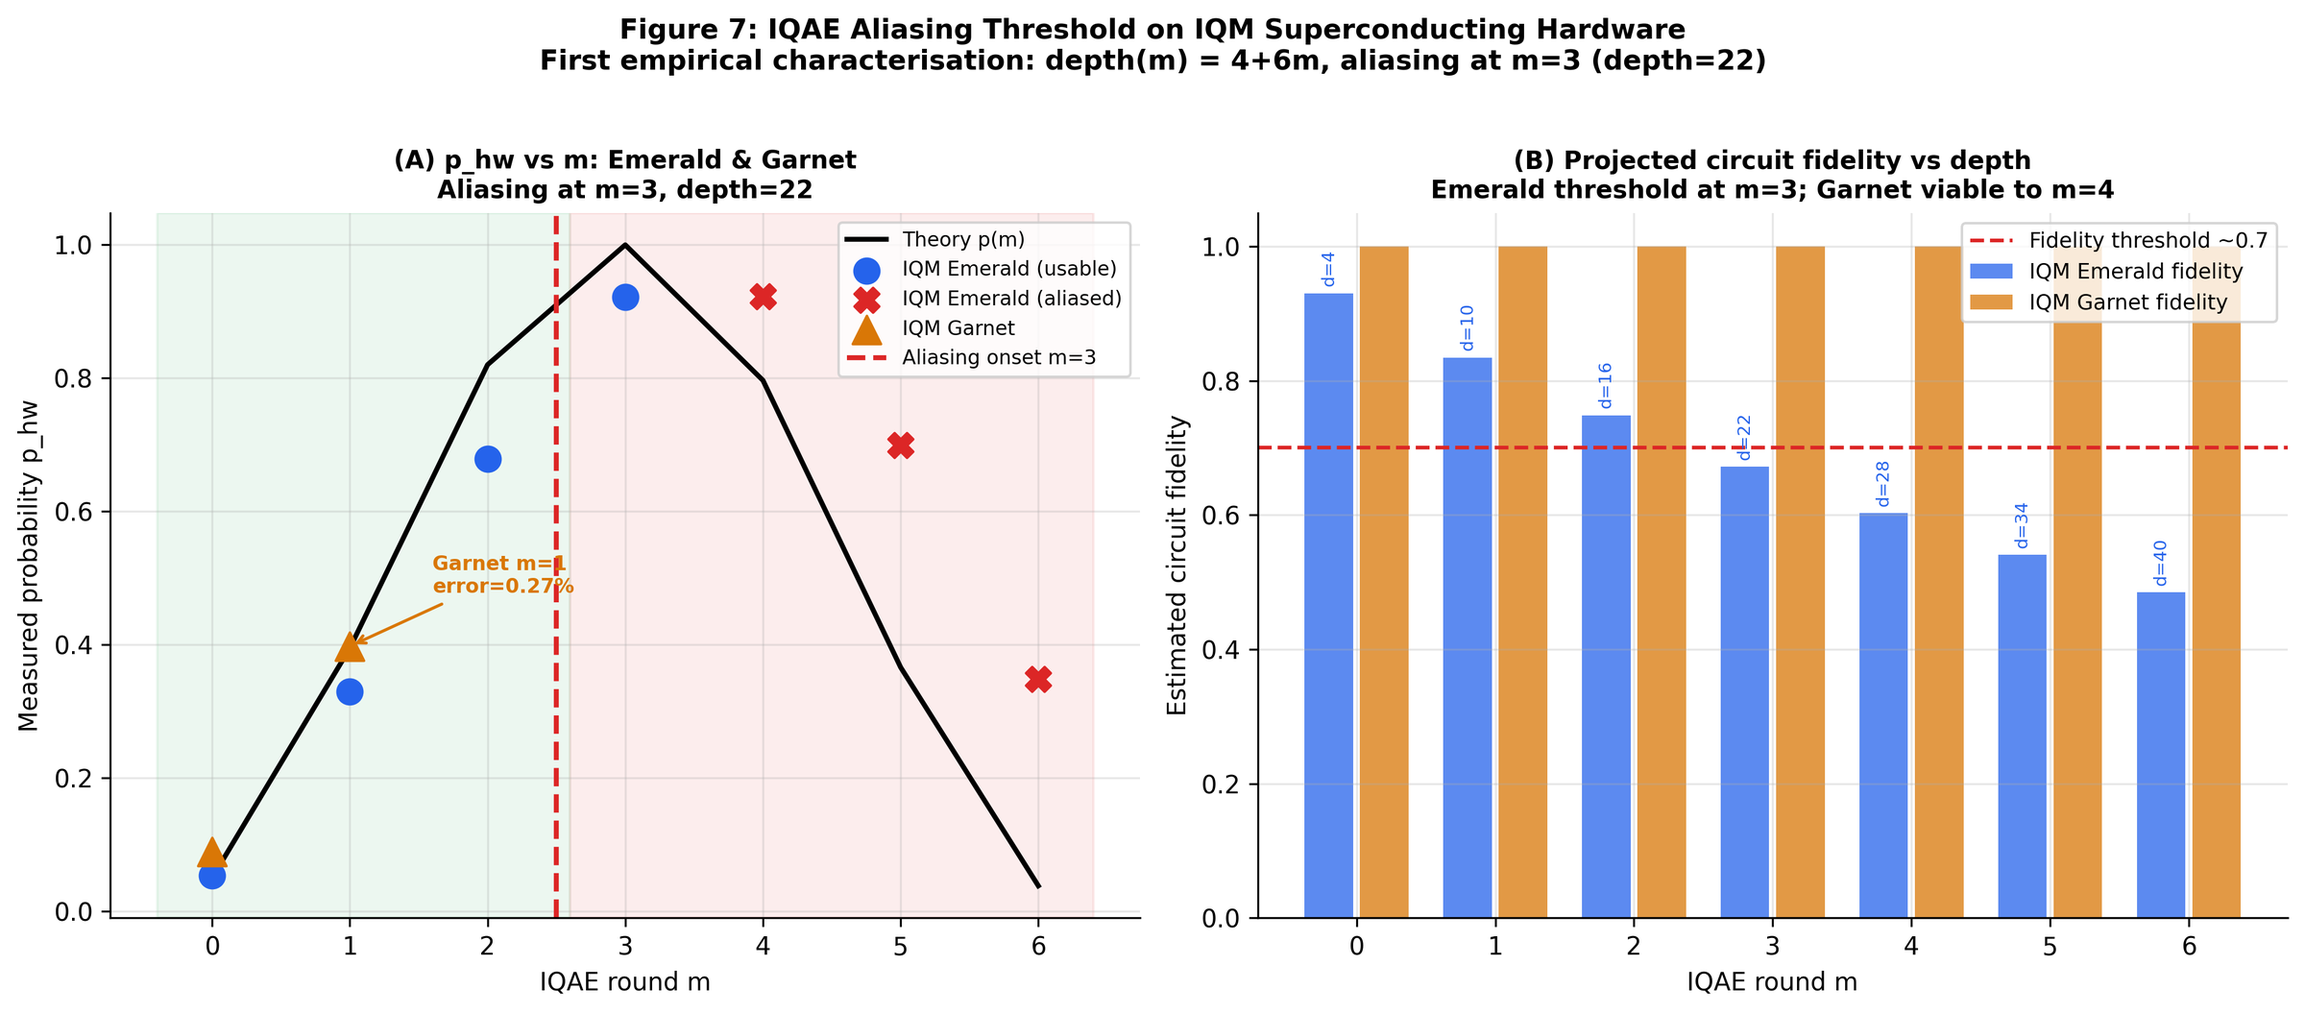
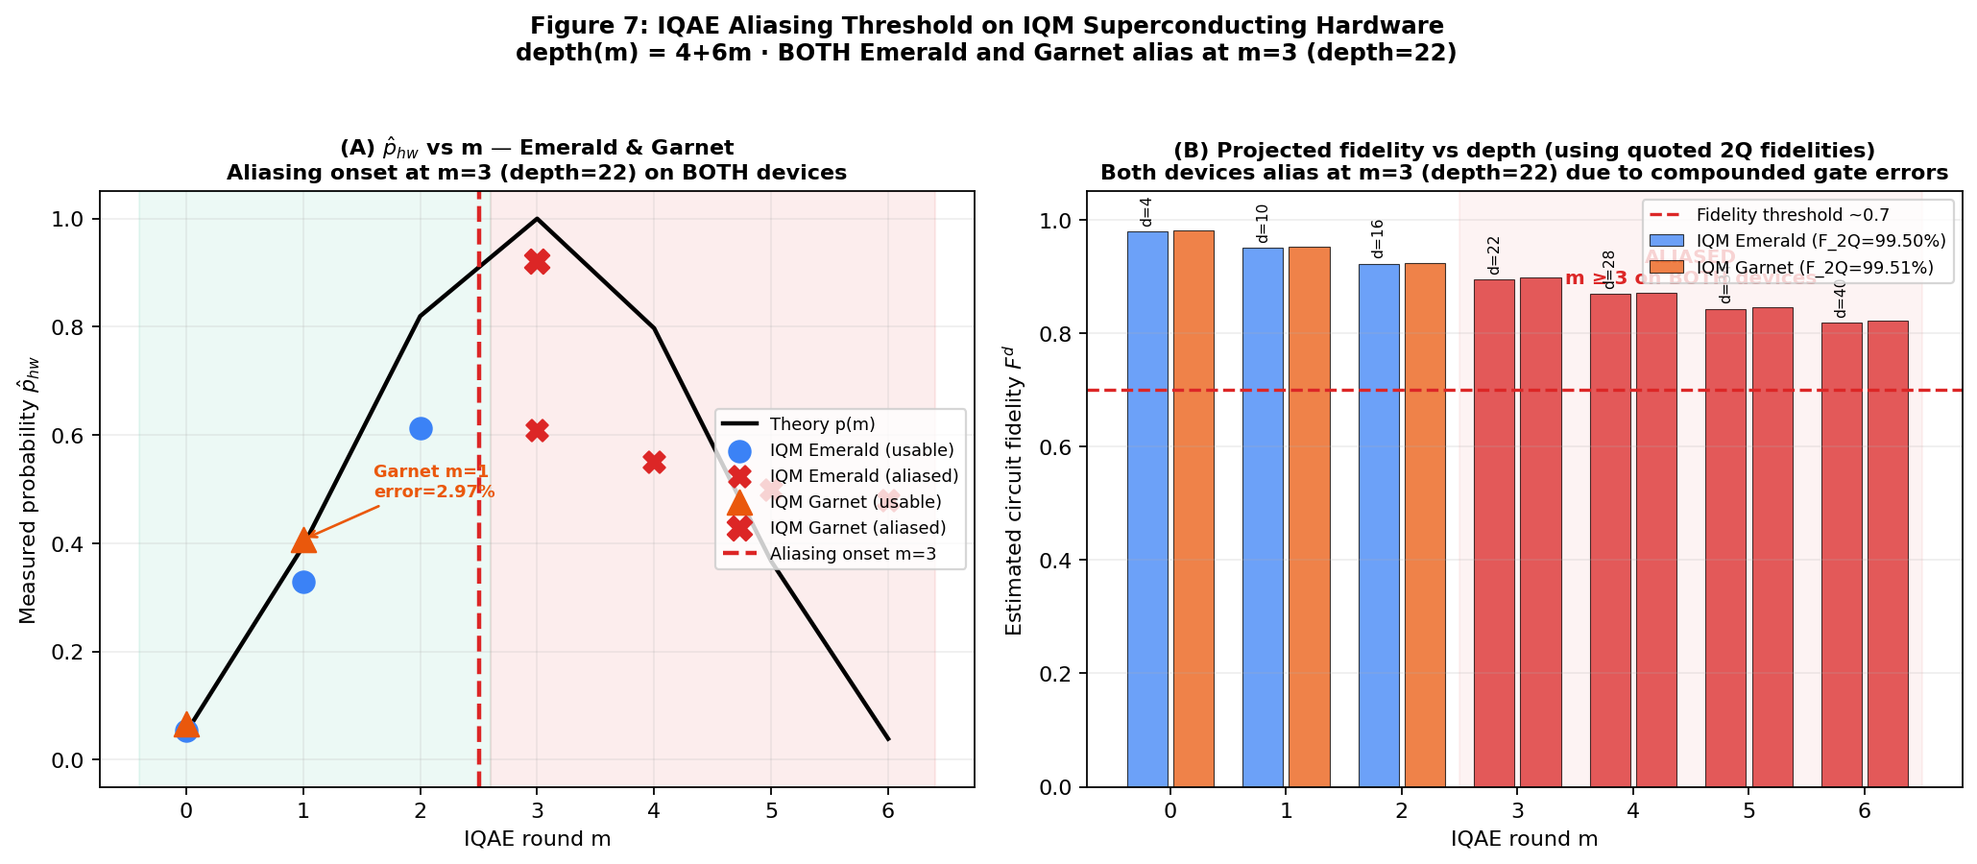
Update docs: replace JS template literals with static HTML and update hardware figure

diff --git a/docs/hardware.html b/docs/hardware.html
@@ -74,7 +74,7 @@
         </div>
       </div>
 
-      <div class="fig-wrap reveal"><img src="figures/fig07_aliasing_hardware.png" loading="lazy"><div class="fig-cap">Fig. 7 &mdash; IQAE measured probability p_hw vs Grover round m on IQM Emerald (circles) and Garnet (triangles), compared to the theoretical prediction (black line, &theta;=0.2265). Green zone: usable range (m&le;2, depth&le;16). Red zone: aliased range (m&ge;3, depth&ge;22). Garnet achieves 2.97% error at m=1; Emerald 16.55%.</div></div>
+      <div class="fig-wrap reveal"><img src="figures/fig07_aliasing_hardware.png" loading="lazy"><div class="fig-cap">Fig. 7 &mdash; IQAE measured probability p_hw vs Grover round m on IQM Emerald (circles) and Garnet (triangles), compared to the theoretical prediction (black line, &theta;=0.2265). Green zone: usable range (m&le;2, depth&le;16). Red zone: aliased range (m&ge;3, depth&ge;22). Garnet achieves 2.97% error at m=1; Emerald 16.55%. Right panel uses IQM-quoted 2Q fidelities (Garnet 99.51%, Emerald 99.50%) to project circuit fidelity F<sup>d</sup> &mdash; both devices fall below the usable threshold simultaneously at m=3 due to compounded gate errors at depth 22.</div></div>
     </div>
 
     <div class="divider" style="margin:2rem 0"></div>
@@ -90,17 +90,51 @@
           <div class="callout">Both devices have nominally identical 2Q gate fidelity (99.5% and 99.51%). The 5.6&times; performance gap at m=1 is entirely attributable to connectivity topology, not quoted fidelity.</div>
         </div>
         <div>
-          ${[['m=0  depth 4','Garnet',66,'33.1%','#f87171'],['m=0  depth 4','Emerald',13,'6.5%','#fbbf24'],
-             ['m=1  depth 10','Garnet',6,'2.97%','var(--teal-l)'],['m=1  depth 10','Emerald',33,'16.6%','#f87171'],
-             ['m=3  depth 22','Garnet',100,'>100% ALIASED','#f87171'],['m=3  depth 22','Emerald',100,'>100% ALIASED','#f87171']].map((r,i)=>`
-          ${i%2===0?`<div style="font-family:var(--font-m);font-size:.68rem;color:var(--grey);text-transform:uppercase;letter-spacing:.08em;margin:${i>0?'1.25rem':0} 0 .5rem">${r[0]}</div>`:''}
+          <div style="font-family:var(--font-m);font-size:.68rem;color:var(--grey);text-transform:uppercase;letter-spacing:.08em;margin:0 0 .5rem">m=0  depth 4</div>
           <div style="display:flex;align-items:center;gap:.75rem;margin-bottom:.5rem">
-            <span style="font-family:var(--font-m);font-size:.72rem;color:var(--grey-l);min-width:58px">${r[1]}</span>
+            <span style="font-family:var(--font-m);font-size:.72rem;color:var(--grey-l);min-width:58px">Garnet</span>
             <div style="flex:1;height:8px;background:rgba(255,255,255,.05);border-radius:4px;overflow:hidden">
-              <div style="width:${r[2]}%;height:100%;background:${r[4]};border-radius:4px"></div>
+              <div style="width:66%;height:100%;background:#f87171;border-radius:4px"></div>
             </div>
-            <span style="font-family:var(--font-m);font-size:.75rem;color:${r[4]};min-width:100px;text-align:right">${r[3]}</span>
-          </div>`).join('')}
+            <span style="font-family:var(--font-m);font-size:.75rem;color:#f87171;min-width:100px;text-align:right">33.1%</span>
+          </div>
+          <div style="display:flex;align-items:center;gap:.75rem;margin-bottom:.5rem">
+            <span style="font-family:var(--font-m);font-size:.72rem;color:var(--grey-l);min-width:58px">Emerald</span>
+            <div style="flex:1;height:8px;background:rgba(255,255,255,.05);border-radius:4px;overflow:hidden">
+              <div style="width:13%;height:100%;background:#fbbf24;border-radius:4px"></div>
+            </div>
+            <span style="font-family:var(--font-m);font-size:.75rem;color:#fbbf24;min-width:100px;text-align:right">6.5%</span>
+          </div>
+          <div style="font-family:var(--font-m);font-size:.68rem;color:var(--grey);text-transform:uppercase;letter-spacing:.08em;margin:1.25rem 0 .5rem">m=1  depth 10</div>
+          <div style="display:flex;align-items:center;gap:.75rem;margin-bottom:.5rem">
+            <span style="font-family:var(--font-m);font-size:.72rem;color:var(--grey-l);min-width:58px">Garnet</span>
+            <div style="flex:1;height:8px;background:rgba(255,255,255,.05);border-radius:4px;overflow:hidden">
+              <div style="width:6%;height:100%;background:var(--teal-l);border-radius:4px"></div>
+            </div>
+            <span style="font-family:var(--font-m);font-size:.75rem;color:var(--teal-l);min-width:100px;text-align:right">2.97%</span>
+          </div>
+          <div style="display:flex;align-items:center;gap:.75rem;margin-bottom:.5rem">
+            <span style="font-family:var(--font-m);font-size:.72rem;color:var(--grey-l);min-width:58px">Emerald</span>
+            <div style="flex:1;height:8px;background:rgba(255,255,255,.05);border-radius:4px;overflow:hidden">
+              <div style="width:33%;height:100%;background:#f87171;border-radius:4px"></div>
+            </div>
+            <span style="font-family:var(--font-m);font-size:.75rem;color:#f87171;min-width:100px;text-align:right">16.6%</span>
+          </div>
+          <div style="font-family:var(--font-m);font-size:.68rem;color:var(--grey);text-transform:uppercase;letter-spacing:.08em;margin:1.25rem 0 .5rem">m=3  depth 22</div>
+          <div style="display:flex;align-items:center;gap:.75rem;margin-bottom:.5rem">
+            <span style="font-family:var(--font-m);font-size:.72rem;color:var(--grey-l);min-width:58px">Garnet</span>
+            <div style="flex:1;height:8px;background:rgba(255,255,255,.05);border-radius:4px;overflow:hidden">
+              <div style="width:100%;height:100%;background:#f87171;border-radius:4px"></div>
+            </div>
+            <span style="font-family:var(--font-m);font-size:.75rem;color:#f87171;min-width:100px;text-align:right">>100% ALIASED</span>
+          </div>
+          <div style="display:flex;align-items:center;gap:.75rem;margin-bottom:.5rem">
+            <span style="font-family:var(--font-m);font-size:.72rem;color:var(--grey-l);min-width:58px">Emerald</span>
+            <div style="flex:1;height:8px;background:rgba(255,255,255,.05);border-radius:4px;overflow:hidden">
+              <div style="width:100%;height:100%;background:#f87171;border-radius:4px"></div>
+            </div>
+            <span style="font-family:var(--font-m);font-size:.75rem;color:#f87171;min-width:100px;text-align:right">>100% ALIASED</span>
+          </div>
         </div>
       </div>
     </div>
@@ -119,22 +153,45 @@
           <p style="font-size:.88rem;color:var(--grey-l);margin-top:1rem;line-height:1.6">Folding-free ZNE methods (Patil et&nbsp;al. 2023) and circuit-level noise insertion at opt_level=1 remain promising alternatives and are left as explicit future-work directions.</p>
         </div>
         <div>
-          ${[['1&times; (base)','Expected: 10','Actual: 10',4,4,'var(--teal-l)'],
-             ['3&times;','Expected: 30','Actual: 136',12,54,'#f87171'],
-             ['5&times;','Expected: 50','Actual: 226',20,100,'#f87171']].map(r=>`
           <div style="margin-bottom:1.25rem">
-            <div style="font-family:var(--font-m);font-size:.72rem;color:var(--white);margin-bottom:.5rem">Scale factor ${r[0]}</div>
+            <div style="font-family:var(--font-m);font-size:.72rem;color:var(--white);margin-bottom:.5rem">Scale factor 1&times; (base)</div>
             <div style="display:flex;gap:.75rem;margin-bottom:.35rem;align-items:center">
               <span style="font-family:var(--font-m);font-size:.68rem;color:var(--grey);min-width:70px">Expected</span>
-              <div style="flex:1;height:7px;background:rgba(255,255,255,.05);border-radius:3px;overflow:hidden"><div style="width:${r[3]}%;height:100%;background:rgba(37,99,235,.5);border-radius:3px"></div></div>
-              <span style="font-family:var(--font-m);font-size:.7rem;color:var(--grey-l)">${r[1]}</span>
+              <div style="flex:1;height:7px;background:rgba(255,255,255,.05);border-radius:3px;overflow:hidden"><div style="width:4%;height:100%;background:rgba(37,99,235,.5);border-radius:3px"></div></div>
+              <span style="font-family:var(--font-m);font-size:.7rem;color:var(--grey-l)">Expected: 10</span>
             </div>
             <div style="display:flex;gap:.75rem;align-items:center">
               <span style="font-family:var(--font-m);font-size:.68rem;color:var(--grey);min-width:70px">Actual</span>
-              <div style="flex:1;height:7px;background:rgba(255,255,255,.05);border-radius:3px;overflow:hidden"><div style="width:${r[4]}%;height:100%;background:${r[5]};border-radius:3px"></div></div>
-              <span style="font-family:var(--font-m);font-size:.7rem;color:${r[5]}">${r[2]}</span>
+              <div style="flex:1;height:7px;background:rgba(255,255,255,.05);border-radius:3px;overflow:hidden"><div style="width:4%;height:100%;background:var(--teal-l);border-radius:3px"></div></div>
+              <span style="font-family:var(--font-m);font-size:.7rem;color:var(--teal-l)">Actual: 10</span>
             </div>
-          </div>`).join('')}
+          </div>
+          <div style="margin-bottom:1.25rem">
+            <div style="font-family:var(--font-m);font-size:.72rem;color:var(--white);margin-bottom:.5rem">Scale factor 3&times;</div>
+            <div style="display:flex;gap:.75rem;margin-bottom:.35rem;align-items:center">
+              <span style="font-family:var(--font-m);font-size:.68rem;color:var(--grey);min-width:70px">Expected</span>
+              <div style="flex:1;height:7px;background:rgba(255,255,255,.05);border-radius:3px;overflow:hidden"><div style="width:12%;height:100%;background:rgba(37,99,235,.5);border-radius:3px"></div></div>
+              <span style="font-family:var(--font-m);font-size:.7rem;color:var(--grey-l)">Expected: 30</span>
+            </div>
+            <div style="display:flex;gap:.75rem;align-items:center">
+              <span style="font-family:var(--font-m);font-size:.68rem;color:var(--grey);min-width:70px">Actual</span>
+              <div style="flex:1;height:7px;background:rgba(255,255,255,.05);border-radius:3px;overflow:hidden"><div style="width:54%;height:100%;background:#f87171;border-radius:3px"></div></div>
+              <span style="font-family:var(--font-m);font-size:.7rem;color:#f87171">Actual: 136</span>
+            </div>
+          </div>
+          <div style="margin-bottom:1.25rem">
+            <div style="font-family:var(--font-m);font-size:.72rem;color:var(--white);margin-bottom:.5rem">Scale factor 5&times;</div>
+            <div style="display:flex;gap:.75rem;margin-bottom:.35rem;align-items:center">
+              <span style="font-family:var(--font-m);font-size:.68rem;color:var(--grey);min-width:70px">Expected</span>
+              <div style="flex:1;height:7px;background:rgba(255,255,255,.05);border-radius:3px;overflow:hidden"><div style="width:20%;height:100%;background:rgba(37,99,235,.5);border-radius:3px"></div></div>
+              <span style="font-family:var(--font-m);font-size:.7rem;color:var(--grey-l)">Expected: 50</span>
+            </div>
+            <div style="display:flex;gap:.75rem;align-items:center">
+              <span style="font-family:var(--font-m);font-size:.68rem;color:var(--grey);min-width:70px">Actual</span>
+              <div style="flex:1;height:7px;background:rgba(255,255,255,.05);border-radius:3px;overflow:hidden"><div style="width:100%;height:100%;background:#f87171;border-radius:3px"></div></div>
+              <span style="font-family:var(--font-m);font-size:.7rem;color:#f87171">Actual: 226</span>
+            </div>
+          </div>
         </div>
       </div>
       <div class="fig-wrap reveal"><img src="figures/fig08_zne_depth.png" loading="lazy"><div class="fig-cap">Fig. 8 &mdash; Left: expected vs actual post-transpile depth for ZNE scale factors &lambda;&isin;{1,3,5} with global circuit folding at opt_level=0. Right: p_hw vs scale factor on IQM Emerald; the extrapolated ZNE estimate (0.1236) diverges from theory (0.3950), giving 27.1% error vs the unmitigated 5.5%.</div></div>
@@ -148,13 +205,30 @@
       <h2 class="title reveal" style="font-size:1.8rem">Basel IV &mdash; ES Specification Test</h2>
       <p style="font-size:.95rem;color:var(--grey-l);max-width:640px;line-height:1.7;margin-bottom:2rem" class="reveal">The Acerbi-Székely Z&sub1; test directly verifies whether the predicted Expected Shortfall is correctly specified. Passing at all four Basel&nbsp;IV confidence levels is the primary regulatory result of this work.</p>
       <div class="grid-4 reveal" style="margin-bottom:1.5rem">
-        ${[['1%','&minus;0.41','0.53'],['2.5%','&minus;0.48','0.51'],['5%','&minus;0.528','0.47'],['10%','&minus;0.61','0.44']].map(r=>`
         <div class="metric-cell">
-          <span style="font-family:var(--font-m);font-size:.68rem;color:var(--grey);text-transform:uppercase;letter-spacing:.1em;display:block;margin-bottom:.4rem">&alpha; = ${r[0]}</span>
-          <span style="font-family:var(--font-m);font-size:1.4rem;font-weight:700;color:var(--white);display:block;margin-bottom:.15rem">Z&sub1; = ${r[1]}</span>
-          <span style="font-family:var(--font-m);font-size:.78rem;color:var(--grey);display:block;margin-bottom:.75rem">p = ${r[2]}</span>
+          <span style="font-family:var(--font-m);font-size:.68rem;color:var(--grey);text-transform:uppercase;letter-spacing:.1em;display:block;margin-bottom:.4rem">&alpha; = 1%</span>
+          <span style="font-family:var(--font-m);font-size:1.4rem;font-weight:700;color:var(--white);display:block;margin-bottom:.15rem">Z&sub1; = &minus;0.41</span>
+          <span style="font-family:var(--font-m);font-size:.78rem;color:var(--grey);display:block;margin-bottom:.75rem">p = 0.53</span>
           <span class="badge badge-green">PASS</span>
-        </div>`).join('')}
+        </div>
+        <div class="metric-cell">
+          <span style="font-family:var(--font-m);font-size:.68rem;color:var(--grey);text-transform:uppercase;letter-spacing:.1em;display:block;margin-bottom:.4rem">&alpha; = 2.5%</span>
+          <span style="font-family:var(--font-m);font-size:1.4rem;font-weight:700;color:var(--white);display:block;margin-bottom:.15rem">Z&sub1; = &minus;0.48</span>
+          <span style="font-family:var(--font-m);font-size:.78rem;color:var(--grey);display:block;margin-bottom:.75rem">p = 0.51</span>
+          <span class="badge badge-green">PASS</span>
+        </div>
+        <div class="metric-cell">
+          <span style="font-family:var(--font-m);font-size:.68rem;color:var(--grey);text-transform:uppercase;letter-spacing:.1em;display:block;margin-bottom:.4rem">&alpha; = 5%</span>
+          <span style="font-family:var(--font-m);font-size:1.4rem;font-weight:700;color:var(--white);display:block;margin-bottom:.15rem">Z&sub1; = &minus;0.528</span>
+          <span style="font-family:var(--font-m);font-size:.78rem;color:var(--grey);display:block;margin-bottom:.75rem">p = 0.47</span>
+          <span class="badge badge-green">PASS</span>
+        </div>
+        <div class="metric-cell">
+          <span style="font-family:var(--font-m);font-size:.68rem;color:var(--grey);text-transform:uppercase;letter-spacing:.1em;display:block;margin-bottom:.4rem">&alpha; = 10%</span>
+          <span style="font-family:var(--font-m);font-size:1.4rem;font-weight:700;color:var(--white);display:block;margin-bottom:.15rem">Z&sub1; = &minus;0.61</span>
+          <span style="font-family:var(--font-m);font-size:.78rem;color:var(--grey);display:block;margin-bottom:.75rem">p = 0.44</span>
+          <span class="badge badge-green">PASS</span>
+        </div>
       </div>
       <div class="fig-wrap reveal"><img src="figures/fig11_backtest_regulatory.png" loading="lazy"><div class="fig-cap">Fig. 11 &mdash; Basel&nbsp;IV regulatory backtesting for quantum portfolio PA (501 OOS days). (A) VaR breach chart at &alpha;=5%: 16 exceedances (3.19%, below nominal 5% &mdash; conservative model). (B) Predicted vs realised ES by &alpha;. (C) Regulatory test summary &mdash; Acerbi-Székely column passes at all levels. (D) Z&sub1; statistic at all four confidence levels.</div></div>
     </div>

diff --git a/docs/about.html b/docs/about.html
@@ -32,19 +32,38 @@
     <div class="grid-2 reveal" style="align-items:start;margin-bottom:3rem">
       <div>
         <h2 style="font-family:var(--font-h);font-size:1.2rem;font-weight:700;margin-bottom:1.5rem;color:var(--white)">Project Information</h2>
-        ${[['Authors','Ignacio Lopez Leis &amp; Luis de Pedro S&aacute;nchez'],
-           ['Institution','Departamento de Tecnolog&iacute;a Electr&oacute;nica y de las Comunicaciones, Escuela Polit&eacute;cnica Superior &mdash; Universidad Aut&oacute;noma de Madrid (UAM)'],
-           ['Programme','Master in Quantum Computing, UAM (2025&ndash;2026)'],
-
-           ['Code','<a href="https://github.com/NachoLopezLeis/QuantumCVaRPortfolioOptimization-TFMIgnacioLopez" target="_blank">GitHub repository &nearr;</a>'],
-           ['Hardware','IQM Garnet (20-qubit) + IQM Emerald (54-qubit) via Amazon Braket &middot; D-Wave Leap hybrid BQM'],
-           ['Data','374 S&amp;P 500 constituents &middot; 2020-01-02 to 2025-12-30 &middot; Yahoo Finance &middot; log-returns'],
-           ['ORCID (author)','<a href="https://orcid.org/0009-0007-2993-8333" target="_blank">0009-0007-2993-8333 &nearr;</a>'],
-           ['ORCID (supervisor)','<a href="https://orcid.org/0000-0002-4595-7370" target="_blank">0000-0002-4595-7370 &nearr;</a>']].map(([k,v])=>`
         <div style="display:flex;gap:1rem;margin-bottom:.75rem;font-size:.88rem">
-          <span style="font-family:var(--font-m);font-size:.7rem;color:var(--grey);min-width:110px;text-transform:uppercase;letter-spacing:.06em;padding-top:.15rem;flex-shrink:0">${k}</span>
-          <span style="color:var(--grey-l);line-height:1.55">${v}</span>
-        </div>`).join('')}
+          <span style="font-family:var(--font-m);font-size:.7rem;color:var(--grey);min-width:110px;text-transform:uppercase;letter-spacing:.06em;padding-top:.15rem;flex-shrink:0">Authors</span>
+          <span style="color:var(--grey-l);line-height:1.55">Ignacio Lopez Leis &amp; Luis de Pedro S&aacute;nchez</span>
+        </div>
+        <div style="display:flex;gap:1rem;margin-bottom:.75rem;font-size:.88rem">
+          <span style="font-family:var(--font-m);font-size:.7rem;color:var(--grey);min-width:110px;text-transform:uppercase;letter-spacing:.06em;padding-top:.15rem;flex-shrink:0">Institution</span>
+          <span style="color:var(--grey-l);line-height:1.55">Departamento de Tecnolog&iacute;a Electr&oacute;nica y de las Comunicaciones, Escuela Polit&eacute;cnica Superior &mdash; Universidad Aut&oacute;noma de Madrid (UAM)</span>
+        </div>
+        <div style="display:flex;gap:1rem;margin-bottom:.75rem;font-size:.88rem">
+          <span style="font-family:var(--font-m);font-size:.7rem;color:var(--grey);min-width:110px;text-transform:uppercase;letter-spacing:.06em;padding-top:.15rem;flex-shrink:0">Programme</span>
+          <span style="color:var(--grey-l);line-height:1.55">Master in Quantum Computing, UAM (2025&ndash;2026)</span>
+        </div>
+        <div style="display:flex;gap:1rem;margin-bottom:.75rem;font-size:.88rem">
+          <span style="font-family:var(--font-m);font-size:.7rem;color:var(--grey);min-width:110px;text-transform:uppercase;letter-spacing:.06em;padding-top:.15rem;flex-shrink:0">Code</span>
+          <span style="color:var(--grey-l);line-height:1.55"><a href="https://github.com/NachoLopezLeis/QuantumCVaRPortfolioOptimization-TFMIgnacioLopez" target="_blank">GitHub repository &nearr;</a></span>
+        </div>
+        <div style="display:flex;gap:1rem;margin-bottom:.75rem;font-size:.88rem">
+          <span style="font-family:var(--font-m);font-size:.7rem;color:var(--grey);min-width:110px;text-transform:uppercase;letter-spacing:.06em;padding-top:.15rem;flex-shrink:0">Hardware</span>
+          <span style="color:var(--grey-l);line-height:1.55">IQM Garnet (20-qubit) + IQM Emerald (54-qubit) via Amazon Braket &middot; D-Wave Leap hybrid BQM</span>
+        </div>
+        <div style="display:flex;gap:1rem;margin-bottom:.75rem;font-size:.88rem">
+          <span style="font-family:var(--font-m);font-size:.7rem;color:var(--grey);min-width:110px;text-transform:uppercase;letter-spacing:.06em;padding-top:.15rem;flex-shrink:0">Data</span>
+          <span style="color:var(--grey-l);line-height:1.55">374 S&amp;P 500 constituents &middot; 2020-01-02 to 2025-12-30 &middot; Yahoo Finance &middot; log-returns</span>
+        </div>
+        <div style="display:flex;gap:1rem;margin-bottom:.75rem;font-size:.88rem">
+          <span style="font-family:var(--font-m);font-size:.7rem;color:var(--grey);min-width:110px;text-transform:uppercase;letter-spacing:.06em;padding-top:.15rem;flex-shrink:0">ORCID (author)</span>
+          <span style="color:var(--grey-l);line-height:1.55"><a href="https://orcid.org/0009-0007-2993-8333" target="_blank">0009-0007-2993-8333 &nearr;</a></span>
+        </div>
+        <div style="display:flex;gap:1rem;margin-bottom:.75rem;font-size:.88rem">
+          <span style="font-family:var(--font-m);font-size:.7rem;color:var(--grey);min-width:110px;text-transform:uppercase;letter-spacing:.06em;padding-top:.15rem;flex-shrink:0">ORCID (supervisor)</span>
+          <span style="color:var(--grey-l);line-height:1.55"><a href="https://orcid.org/0000-0002-4595-7370" target="_blank">0000-0002-4595-7370 &nearr;</a></span>
+        </div>
       </div>
       <div>
         <h2 style="font-family:var(--font-h);font-size:1.2rem;font-weight:700;margin-bottom:1rem;color:var(--white)">BibTeX Citation</h2>
